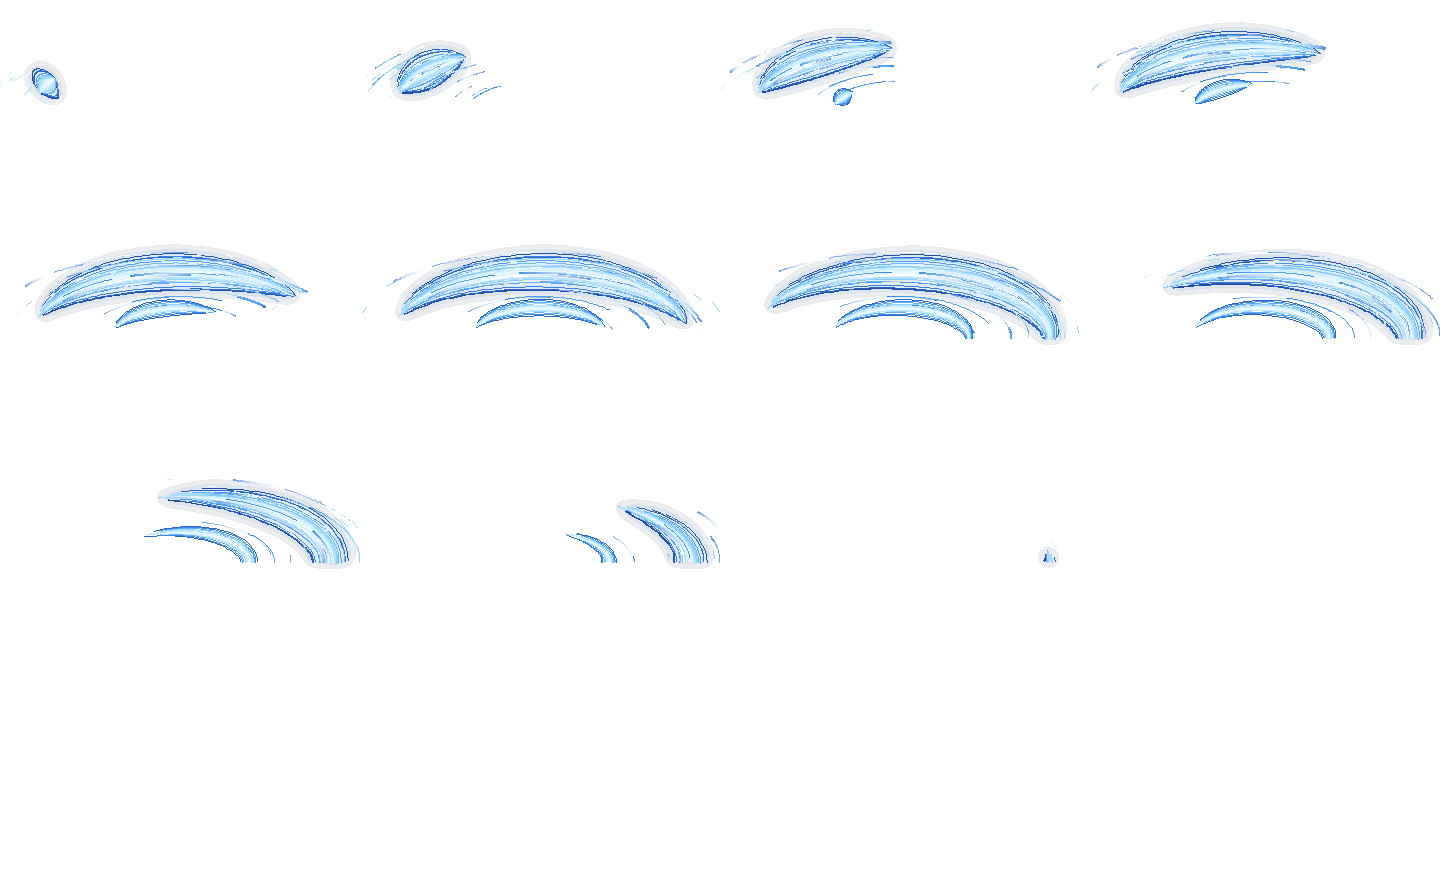
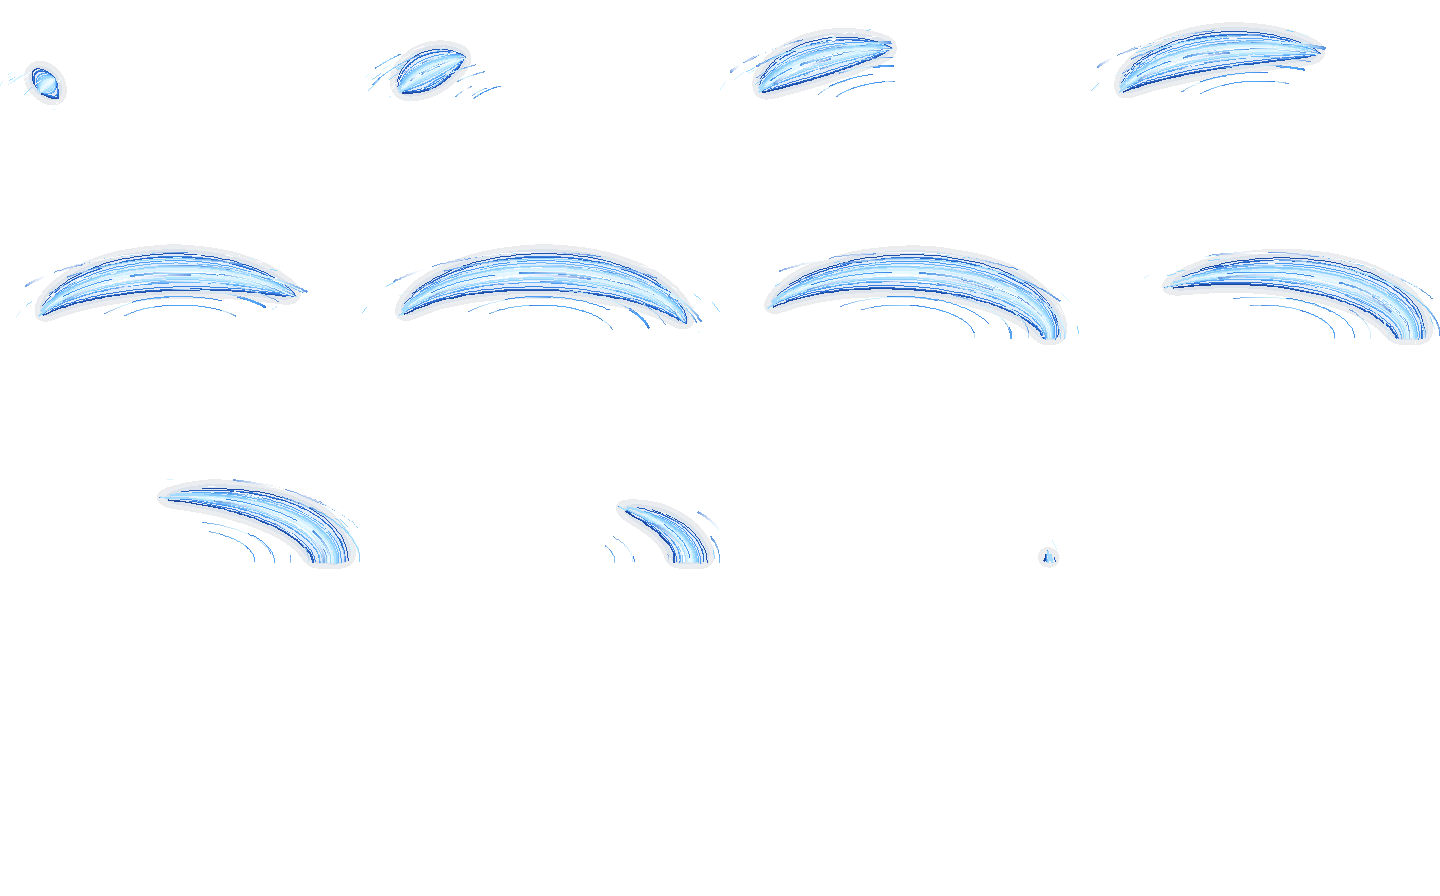
Mũ vàng chạm khắc (PixelLab), đòn 3 Ngộ Không nhanh hơn, X nổ va chạm, R rơi chậm và tan, dash mới, ô xu sát trái, bỏ squash Kiếm
Claude-Session: https://claude.ai/code/session_01MYwTvK6dULdzXHFPeBSgyd

diff --git a/game/index.html b/game/index.html
@@ -1403,7 +1403,7 @@ input,select,textarea,#crName{font-size:16px!important}
 #avaC{width:57px!important;height:57px!important}
 #avaLv{right:-4px!important;bottom:-2px!important;left:auto!important;top:auto!important;z-index:3}
 .avn{padding-top:1px}
-#coins{left:calc(max(10px,env(safe-area-inset-left)) + 73px)!important;top:calc(max(8px,env(safe-area-inset-top)) + 69px)!important;padding:2px 12px 2px 6px!important;font-size:14px!important;gap:6px!important;border-radius:8px!important}
+#coins{left:calc(max(10px,env(safe-area-inset-left)) + 0px)!important;top:calc(max(8px,env(safe-area-inset-top)) + 69px)!important;padding:2px 12px 2px 6px!important;font-size:14px!important;gap:6px!important;border-radius:8px!important}
 #coins canvas{width:16px!important;height:16px!important}
 @media (max-height:520px){
  #avaBtn{width:57px!important;height:57px!important}#avaC{width:50px!important;height:50px!important}
@@ -2105,7 +2105,7 @@ const WEAPONS={
 const GOD=o=>Object.assign({src:'g',t:'w'},o);
 const GODS={
  wukong:{name:'Tôn Ngộ Không',tf:'Tề Thiên Giáng Thế',tier:'SSS',mult:3.0,dur:20,cd:60,armor:15,spd:0.2,look:'wukong',wpn:'bong',g:'悟',role:'Sát thương diện rộng, thổi lông hóa khỉ con',wname:'Như Ý Kim Cô Bổng',
-  basic:{name:'Như Ý Liên Bổng',g:'棒',cd:0.42,range:145,cast(tg){const a=angTo(tg);P._gN=((P._gN||0)+1)%3;const slam=P._gN===0;if(slam)P._gRoot=G.t+0.7;P._gB=P._gN===2;P._gSl=slam;swing(a,P.sw=-(P.sw||1));if(slam){const fcs=Math.cos(a)<0?-1:1;P.facing=fcs;later(0.12,()=>{if(P.form!=='god')return;if(vok('wk_arc'))fx({k:'sp',s:'wk_arc',x:P.x,y:P.y,sc:0.98,fx:fcs,T:0.5,follow:1,al:0.9});},'g');later(0.33,()=>{if(P.form!=='god')return;arc(P.x,P.y-8,a,150,2.2,26*gp(),GOD({kb:220,stun:0.12,nofx:1}),'#ffd36a',1);G.shake=Math.max(G.shake||0,5);cracks(P.x+fcs*60,P.y,60)},'g');return}const fc=Math.cos(a)<0?-1:1,ta=clamp(Math.atan2(Math.sin(a),Math.abs(Math.cos(a))),-0.35,0.35);if(!P._gB){/* Bổ: gậy giơ cao bổ xuống phía trước -> vệt trăng tâm ở tay, quét trên xuống trước mặt; trúng ở khung gậy bổ xuống, đã chạy đi thì hủy */later(0.2,()=>{if(P.form!=='god')return;const sp=vok('wk_arc');arc(P.x,P.y-8,a,138,2.4,14*gp(),GOD({kb:120,nofx:sp}),'#ffd36a',1);},'g');/* đòn 1 cùng họ vệt với đòn 3 (wk_arc), bản nhỏ 65%, chỉ phần trăng, không gai bụi (24/11) */later(0.02,()=>{if(P.form!=='god')return;if(vok('wk_arc'))fx({k:'sp',s:'wk_arc',x:P.x,y:P.y,sc:0.64,fx:fc,f0:0,f1:3,T:0.22,al:0.8,follow:1})},'g')}
+  basic:{name:'Như Ý Liên Bổng',g:'棒',cd:0.42,range:145,cast(tg){const a=angTo(tg);P._gN=((P._gN||0)+1)%3;const slam=P._gN===0;if(slam)P._gRoot=G.t+0.5;P._gB=P._gN===2;P._gSl=slam;swing(a,P.sw=-(P.sw||1));if(slam){const fcs=Math.cos(a)<0?-1:1;P.facing=fcs;later(0.08,()=>{if(P.form!=='god')return;if(vok('wk_arc'))fx({k:'sp',s:'wk_arc',x:P.x,y:P.y,sc:0.98,fx:fcs,T:0.36,follow:1,al:0.9});},'g');later(0.24,()=>{if(P.form!=='god')return;arc(P.x,P.y-8,a,150,2.2,26*gp(),GOD({kb:220,stun:0.12,nofx:1}),'#ffd36a',1);G.shake=Math.max(G.shake||0,5);cracks(P.x+fcs*60,P.y,60)},'g');return}const fc=Math.cos(a)<0?-1:1,ta=clamp(Math.atan2(Math.sin(a),Math.abs(Math.cos(a))),-0.35,0.35);if(!P._gB){/* Bổ: gậy giơ cao bổ xuống phía trước -> vệt trăng tâm ở tay, quét trên xuống trước mặt; trúng ở khung gậy bổ xuống, đã chạy đi thì hủy */later(0.2,()=>{if(P.form!=='god')return;const sp=vok('wk_arc');arc(P.x,P.y-8,a,138,2.4,14*gp(),GOD({kb:120,nofx:sp}),'#ffd36a',1);},'g');/* đòn 1 cùng họ vệt với đòn 3 (wk_arc), bản nhỏ 65%, chỉ phần trăng, không gai bụi (24/11) */later(0.02,()=>{if(P.form!=='god')return;if(vok('wk_arc'))fx({k:'sp',s:'wk_arc',x:P.x,y:P.y,sc:0.64,fx:fc,f0:0,f1:3,T:0.22,al:0.8,follow:1})},'g')}
    else{/* Đâm: gậy nằm ngang theo hướng mặt, tia vàng phóng ra từ đầu gậy, trúng theo đường thẳng hẹp và xa hơn */later(0.12,()=>{if(P.form!=='god')return;const aa=fc>0?ta:Math.PI-ta,sp=1;arc(P.x,P.y-8,aa,175,1.1,15*gp(),GOD({kb:150,nofx:sp}),'#ffd36a',1);/* gậy không có mũi: chỉ chớp lửa nhỏ ở đầu gậy */if(vok('wk_hit'))fx({k:'sp',s:'wk_hit',x:P.x+fc*96,y:P.y-63,sc:0.45,f0:2,f1:5,T:0.16});/* va chạm: tia trúng + lóe sáng ở chỗ quái bị đâm (24/11) */later(0.01,()=>{if(P.form!=='god')return;for(const e of enemiesIn(P.x+fc*95,P.y-8,85).slice(0,3)){if(e.dead)continue;if(vok('wk_hit'))fx({k:'sp',s:'wk_hit',x:e.x,y:e.y-e.r*1.1,sc:0.95,f0:2,T:0.26,al:0.9});burst(e.x,e.y-e.r,'#ffd36a',6)}},'g')},'g')}}},
   skills:[
    {name:'Bạt Mao Triệu Hầu',g:'猴',hotkey:'Q',cd:9,range:420,desc:'Nhổ một nhúm lông thổi ra 5 khỉ con. Mỗi con tự tìm quái, lao tới cào cắn trong 8 giây.',cast(){P._gBlow=G.t;P._gRoot=G.t+0.55;blowMonkeys(5)}},
@@ -2117,7 +2117,7 @@ const GODS={
    later(D,()=>{P._gFly=null;P.x=x1;P.y=y1;P.inv=Math.max(P.inv,0.2);circ(P.x,P.y,150,22*gp(),GOD({kb:150}),cs?null:'#ffe9a0');if(cs){fx({k:'sp',s:'wk_cloud',x:P.x,y:P.y,dy:14,sc:1.5,f0:3,f1:6,fade:0.5,al:0.95,T:0.9,follow:1,gr:1});fx({k:'scorch',x:P.x,y:P.y,r:95,T:1.0,gr:1});if(vok('wk_whirl'))fx({k:'sp',s:'wk_whirl',x:P.x,y:P.y-4,sc:1.4,f0:2,T:0.55,gr:1});cracks(P.x,P.y,110)}G.shake=Math.max(G.shake||0,8)},'g')}},
    {name:'Như Ý Xuyên Thiên',g:'金',hotkey:'X',cd:6,range:360,desc:'Giữ thế đâm, gậy trên tay dài ra 340 và to lên, xuyên cả hàng quái rồi thu về. Sát thương xuyên 35% giáp.',cast(tg){const a=angTo(tg),fc=Math.cos(a)<0?-1:1,ta=0;/* nằm ngang trùng gậy trong tay ở tư thế đâm */P.facing=fc;P._gHold={an:'attack2',fi:2,until:G.t+0.75};addZone({kind:'staffx',T:0.75,len:340,fc,ta,dmg:30*gp(),o:GOD({kb:160,pierceArmor:0.35}),hs:new Set(),src:'g'});const hx0=P.x+fc*(-27),hy0=P.y-63;if(vok('wk_puff')){fx({k:'sp',s:'wk_puff',x:hx0,y:hy0,sc:0.55,f0:5,f1:8,al:0.5,fade:0.6,T:0.4});later(0.66,()=>{if(P.form==='god')fx({k:'sp',s:'wk_puff',x:P.x+fc*(-27),y:P.y-63,sc:0.5,f0:5,f1:8,al:0.45,fade:0.6,T:0.35})},'g')}}},
   ],
-  ult:{name:'Định Hải Trấn Thiên',g:'天',hotkey:'R',cd:11,range:420,desc:'Gậy khổng lồ nện xuống, choáng diện rộng 1,8 giây (tinh anh nửa thời gian, trùm miễn choáng).',cast(tg){const t=densest(P.x,P.y,420)||tg;const x=t.x,y=t.y;fx({k:'staff',x,y,T:0.7});addHazVis(x,y,260,0.5);later(0.5,()=>{const sp=vok('wk_stomp');circ(x,y,260,80*gp(),GOD({stun:1.8,kb:200}),sp?null:'#ffd36a');if(sp){fx({k:'scorch',x,y,r:150,T:1.0,gr:1});fx({k:'sp',s:'wk_stomp',x,y,sc:3,f0:1,T:0.6,gr:1})}G.shake=18;cracks(x,y,260);burst(x,y,'#ffd36a',30)},'g')}}},
+  ult:{name:'Định Hải Trấn Thiên',g:'天',hotkey:'R',cd:11,range:420,desc:'Gậy khổng lồ nện xuống, choáng diện rộng 1,8 giây (tinh anh nửa thời gian, trùm miễn choáng).',cast(tg){const t=densest(P.x,P.y,420)||tg;const x=t.x,y=t.y;fx({k:'staff',x,y,T:1.7});addHazVis(x,y,260,0.95);later(0.95,()=>{const sp=vok('wk_stomp');circ(x,y,260,80*gp(),GOD({stun:1.8,kb:200}),sp?null:'#ffd36a');if(sp){fx({k:'scorch',x,y,r:150,T:1.0,gr:1});fx({k:'sp',s:'wk_stomp',x,y,sc:3,f0:1,T:0.6,gr:1})}G.shake=18;cracks(x,y,260);burst(x,y,'#ffd36a',30)},'g')}}},
  nezha:{name:'Na Tra',tier:'SS',mult:2.6,dur:17,cd:50,armor:10,spd:0.3,look:'nezha',wpn:'hoa',g:'哪',role:'Tốc độ, sát thương lửa',wname:'Hỏa Tiêm Thương',
   basic:{name:'Đâm Thương',g:'槍',cd:0.32,range:165,cast(tg){const a=angTo(tg);swing(a,1);P.thrust=1;line(P.x,P.y-8,a,158,28,10*gp(),GOD({kb:20,burn:1*gp(),t:'m'}),'#ffb050')}},
   skills:[
@@ -2494,7 +2494,7 @@ function updPlayer(dt,frozen){
  let spd=210*(1+S.speed/100);if(P.form==='god')spd*=1+P.god.def.spd;if(P.buffSpd>0){spd*=1.6;P.buffSpd-=dt}if(P.hidden>0){spd*=1.3;P.hidden-=dt}if(stOn('cham'))spd*=1-clamp(P.st.cham.v||0.4,0,0.8);
  if(P._gFly&&G.t-P._gFly.t0>P._gFly.d+0.3)P._gFly=null;
  if(P._gFly){const F=P._gFly,k=Math.min(1,(G.t-F.t0)/F.d),q=k<.5?2*k*k:1-Math.pow(-2*k+2,2)/2;P.x=F.x0+(F.x1-F.x0)*q;P.y=F.y0+(F.y1-F.y0)*q;P.kx=P.ky=0;P.moving=false}
- else if(P.dashT>0){P.dashT-=dt;P.x+=Math.cos(P.dashAng)*780*dt;P.y+=Math.sin(P.dashAng)*780*dt;if(Math.random()<.7)part(P.x,P.y-20,0,0,0.25,9,P.form==='god'?'rgba(255,210,110,.5)':'rgba(180,220,255,.45)',1);if(!LOWFX&&G.decals.length<(MOBILE?12:40)&&Math.random()<(MOBILE?.25:.5))G.decals.push({img:'ink_trail',x:P.x-Math.cos(P.dashAng)*30,y:P.y,ang:P.dashAng+Math.PI,w:90,h:45,t:0,T:0.6,a:0.7})}
+ else if(P.dashT>0){P.dashT-=dt;P.x+=Math.cos(P.dashAng)*780*dt;P.y+=Math.sin(P.dashAng)*780*dt;if(Math.random()<.7)part(P.x,P.y-20,0,0,0.25,9,P.form==='god'?'rgba(255,210,110,.5)':'rgba(180,220,255,.45)',1);if(!LOWFX&&Math.random()<(MOBILE?.5:.8)){const oy=rnd(-34,-8);fx({k:'line',x:P.x-Math.cos(P.dashAng)*14,y:P.y+oy,ang:P.dashAng+Math.PI,len:rnd(46,84),w:rnd(3,6),c:P.form==='god'?'#ffe2a0':'#d8f0ff',T:0.2})}}
  else if(P.cutC){if(!stun&&G.state==='play')updCutC(dt);else endCutC()}
  else if(G.t<(P._gRoot||0)){P.runPh=P.runPh||0}else{P.x+=ix*spd*dt;P.y+=iy*spd*dt;if(P.moving)P.runPh=(P.runPh||0)+spd*Math.min(1,len)*dt}
  P.x+=P.kx*dt;P.y+=P.ky*dt;const dk=Math.max(0,1-8*dt);P.kx*=dk;P.ky*=dk;
@@ -2642,7 +2642,7 @@ for(const id in GODS){const d=GODS[id];(d.skills||[]).forEach((k,i)=>{if(!k.hotk
 function castGod(dt){
  const g=P.god,asp=1+S.aspd/200;
  g.basic.cd-=dt;
- if(g.basic.cd<=0){const tg=nearest(P.x,P.y,g.def.basic.range);if(tg){g.def.basic.cast(tg);g.basic.cd=(g.def.look==='wukong'&&P._gN===0?0.78:g.def.basic.cd)/asp}}
+ if(g.basic.cd<=0){const tg=nearest(P.x,P.y,g.def.basic.range);if(tg){g.def.basic.cast(tg);g.basic.cd=(g.def.look==='wukong'&&P._gN===0?0.58:g.def.basic.cd)/asp}}
  /* Kỹ năng và tuyệt kỹ của Hóa Thân do người chơi BẤM (chủ game, 24/11); ở đây chỉ hồi chiêu. Thần tướng khác vẫn tự thi triển. */
  const manual=true;
  for(const s of g.sk){s.cd=Math.max(0,s.cd-dt);if(manual)continue;if(s.cd<=0){if(s.def.need&&!s.def.need())continue;const tg=nearest(P.x,P.y,s.def.range);if(tg){s.def.cast(tg);s.cd=s.def.cd;s.fl=0.3}}}
@@ -2658,7 +2658,7 @@ function requestGodSkill(key){
 function dash(){
  if(!G||G.state!=='play'||G.paused||P.dashCd>0||P.transT>0||stOn('choang')||cutCLocked())return;
  if(P.cutC)endCutC();
- P.manualQueue=null;P.swordCut=null;P.swordGuard=null;P.av=0;P.atkT=0;P.truyPhongT=secOn('truyphong')?.65:0;P.dashAng=P.moving?P.moveAng:P.aimAng;P.dashT=0.17;if(secOn('hoiphong'))P.hoiPhong=2.5;sfx('suodi_cast',0.35,0.2);P.inv=Math.max(P.inv,0.3);P.dashCd=1.4*(1-S.dashCdr/100);P.holdT0=G.t;tutHook('dash');
+ P.manualQueue=null;P.swordCut=null;P.swordGuard=null;P.av=0;P.atkT=0;P.truyPhongT=secOn('truyphong')?.65:0;P.dashAng=P.moving?P.moveAng:P.aimAng;P.dashT=0.17;if(!LOWFX){fx({k:'ring',x:P.x,y:P.y-6,r0:8,r1:46,c:'#e8f6ff',T:0.22});for(let i=0;i<8;i++)part(P.x+rnd(-6,6),P.y-2,-Math.cos(P.dashAng)*rnd(40,110)+rnd(-30,30),rnd(-26,-6),rnd(0.3,0.5),rnd(4,8),'rgba(225,230,235,.55)',0)}if(secOn('hoiphong'))P.hoiPhong=2.5;sfx('suodi_cast',0.35,0.2);P.inv=Math.max(P.inv,0.3);P.dashCd=1.4*(1-S.dashCdr/100);P.holdT0=G.t;tutHook('dash');
 }
 function updEnemy(e,dt){
  if(e.shMax&&e.shield<e.shMax&&!e.dead){e.shT+=dt;if(e.shT>6){e.shield=e.shMax;e.shT=0}}
@@ -2799,8 +2799,8 @@ function updZones(dt){
      if(k>=1){if(!e.dead){hit(e,z.dmg,z.o,s.x,s.y);fx({k:'sp',s:'hp_imp',x:s.x,y:s.y,sc:0.9,T:0.5});fx({k:'sp',s:'hp_star',x:s.x,y:s.y,sc:0.9,T:0.5})}s.st=2;s.t=0;s.fx0=s.x;s.fy0=s.y;s.e=null}}
     else{const k=Math.min(1,s.t/0.24),q=k*k*(3-2*k);s.x=s.fx0+(ox-s.fx0)*q;s.y=s.fy0+(oy-s.fy0)*q;s.ang=Math.atan2(oy-s.fy0,ox-s.fx0)+Math.PI;if(k>=1){s.st=0;s.nx=z.t+0.55}}}}
   else if(z.kind==='staffx'){const k=z.t/z.T,e=k<0.45?1-Math.pow(1-k/0.45,3):k<0.72?1:1-Math.pow((k-0.72)/0.28,1.6);z.e=e;const L=40+z.len*e,ux=Math.cos(z.ta)*z.fc,uy=Math.sin(z.ta),hx=P.x+z.fc*(-27),hy=P.y-63;z.x=P.x;z.y=P.y;
-   if(!z.tip&&e>=0.97){z.tip=1;if(vok('wk_hit'))fx({k:'sp',s:'wk_hit',x:hx+ux*L,y:hy+uy*L,sc:0.8,f0:2,f1:5,T:0.18});burst(hx+ux*L,hy+uy*L,'#ffd36a',8)}
-   for(const en of enemiesIn(hx+ux*L/2,hy+uy*L/2,L/2+40)){if(z.hs.has(en))continue;const t=clamp(((en.x-hx)*ux+(en.y-en.r-hy)*uy),0,L),px=hx+ux*t,py=hy+uy*t;if(Math.hypot(en.x-px,en.y-en.r-py)<en.r+30){z.hs.add(en);hit(en,z.dmg,z.o,P.x,P.y);if(vok('wk_hit'))fx({k:'sp',s:'wk_hit',x:en.x,y:en.y-en.r*1.1,sc:0.9,f0:2,T:0.26,al:0.9})}}}
+   if(!z.tip&&e>=0.97){z.tip=1;if(vok('wk_hit'))fx({k:'sp',s:'wk_hit',x:hx+ux*L,y:hy+uy*L,sc:0.8,f0:2,f1:5,T:0.18});if(vok('wk_stomp'))fx({k:'sp',s:'wk_stomp',x:hx+ux*L,y:hy+uy*L+16,sc:0.9,f0:1,T:0.45,al:0.9});fx({k:'ring',x:hx+ux*L,y:hy+uy*L,r0:14,r1:80,c:'#ffe9a0',T:0.32});burst(hx+ux*L,hy+uy*L,'#ffd36a',14)}
+   for(const en of enemiesIn(hx+ux*L/2,hy+uy*L/2,L/2+40)){if(z.hs.has(en))continue;const t=clamp(((en.x-hx)*ux+(en.y-en.r-hy)*uy),0,L),px=hx+ux*t,py=hy+uy*t;if(Math.hypot(en.x-px,en.y-en.r-py)<en.r+30){z.hs.add(en);hit(en,z.dmg,z.o,P.x,P.y);if(vok('wk_hit'))fx({k:'sp',s:'wk_hit',x:en.x,y:en.y-en.r*1.1,sc:0.9,f0:2,T:0.26,al:0.9});if(vok('wk_stomp'))fx({k:'sp',s:'wk_stomp',x:en.x,y:en.y,sc:0.75,f0:1,T:0.42,al:0.95});fx({k:'ring',x:en.x,y:en.y-en.r*0.8,r0:10,r1:62,c:'#ffd36a',T:0.28});burst(en.x,en.y-en.r,'#ffb84a',10);G.shake=Math.max(G.shake||0,3)}}}
   else if(z.kind==='staff'){z.cur=z.a0+(z.t/z.T)*TAU*z.dir;for(const e of enemiesIn(z.x,z.y,z.len)){if(z.hs.has(e))continue;if(Math.abs(angDiff(Math.atan2(e.y-z.y,e.x-z.x),z.cur))<0.3){z.hs.add(e);hit(e,z.dmg,z.o,z.x,z.y)}}}
   else if(z.dmg>0){z.acc+=dt;if(z.acc>=z.tick){z.acc-=z.tick;for(const e of enemiesIn(z.x,z.y,z.r))hit(e,z.dmg,z.o,z.x,z.y)}}
  }
@@ -3081,13 +3081,13 @@ function drawFx(f){
   case'scorch':{/* vết cháy dưới đất: mờ dần ra rìa (không viền cứng), nhạt, tan nhanh; trước là hai elip đặc nhìn như cái đĩa đen */c.globalCompositeOperation='source-over';c.globalAlpha=0.34*Math.min(1,(1-k)*2.6)*Math.min(1,k*12+0.4);c.save();c.translate(f.x,f.y);c.scale(1,0.42);const g=c.createRadialGradient(0,0,0,0,0,f.r);g.addColorStop(0,'rgba(30,18,10,.9)');g.addColorStop(0.45,'rgba(42,28,18,.55)');g.addColorStop(1,'rgba(42,28,18,0)');c.fillStyle=g;c.beginPath();c.arc(0,0,f.r,0,TAU);c.fill();c.restore();break}
   case'el':{if(!vok('slash_el'))break;const m=SPX.slash_el,i=Math.min(m.n-1,Math.floor(k*m.n));if(f.follow&&P){f.x=P.x+(f.ox||0);f.y=P.y+(f.oy||0)}c.globalCompositeOperation='source-over';c.imageSmoothingEnabled=false;c.translate(Math.round(f.x),Math.round(f.y));c.scale(f.sx,f.sy);c.rotate(f.back?-Math.PI/2:Math.PI/2);c.drawImage(VFX.slash_el,(i%m.c)*m.w,Math.floor(i/m.c)*m.h,m.w,m.h,-m.px,-m.py,m.w,m.h);break}
   case'sp':{if(f.follow&&P){f.x=P.x;f.y=P.y}const m=SPX[f.s];if(!vok(f.s))break;const f0=f.f0||0,f1=f.f1==null?m.n-1:f.f1,i=Math.min(f1,f0+Math.floor(k*(f1-f0+1)));c.globalCompositeOperation='source-over';c.imageSmoothingEnabled=false;c.globalAlpha=(f.al||1)*(f.fade&&k>1-f.fade?(1-k)/f.fade:1);c.translate(Math.round(f.x+(f.dx||0)*(f.fx||1)),Math.round(f.y+(f.dy||0)+(f.oy||0)*f.sc));if(f.ang)c.rotate(f.ang);c.scale(f.sc*(f.fx||1),f.sc*(f.fl||1)*(f.sy||1));c.drawImage(VFX[f.s],(i%m.c)*m.w,Math.floor(i/m.c)*m.h,m.w,m.h,-m.px,-m.py,m.w,m.h);break}
-  case'staff':{const fall=Math.min(1,k/0.7),ez=fall*fall;c.globalCompositeOperation='source-over';const A0=k>0.85?(1-k)/0.15:1;c.translate(f.x,f.y);
-   /* Định Hải Trấn Thiên (24/11): bóng đổ lớn dần trên đất, vệt tốc độ, ánh vàng phủ thân, chớp sáng khi chạm */
-   c.save();c.globalAlpha=A0*0.45*ez;c.scale(1,0.4);c.fillStyle='rgba(25,12,0,.7)';c.beginPath();c.arc(0,0,70+120*ez,0,TAU);c.fill();c.restore();
-   if(vok('wk_staff')){c.imageSmoothingEnabled=false;const S=4,L=330;c.save();c.scale(S,S);const top=-L-290*(1-fall)*(1-fall)+7;
+  case'staff':{const fall=Math.min(1,k/0.56),ez=fall*fall;c.globalCompositeOperation='source-over';const A0=k>0.66?Math.max(0,(1-k)/0.34):1;c.translate(f.x,f.y);
+   /* Định Hải Trấn Thiên: bóng đổ mềm lớn dần khi gậy rơi (24/11), gậy rơi chậm, đáp xong tan từ từ */
+   {c.save();c.scale(1,0.42);const R=40+150*ez,g=c.createRadialGradient(0,0,R*0.1,0,0,R);g.addColorStop(0,'rgba(20,10,0,'+(0.55*ez*A0)+')');g.addColorStop(0.6,'rgba(30,16,4,'+(0.28*ez*A0)+')');g.addColorStop(1,'rgba(30,16,4,0)');c.fillStyle=g;c.beginPath();c.arc(0,0,R,0,TAU);c.fill();c.restore()}
+   if(vok('wk_staff')){c.imageSmoothingEnabled=false;const S=4,L=330;c.save();c.scale(S,S);const top=-L-290*(1-fall)*(1-fall)*(1-fall)+7;
     if(fall<1){c.globalAlpha=A0*0.5*(1-fall*0.6);c.strokeStyle='#ffe9a0';c.lineWidth=1;for(let i=-3;i<=3;i++){const xx=i*7+(i%2?2:-2);c.beginPath();c.moveTo(xx,top-45-33*((i+7)%3));c.lineTo(xx,top+33);c.stroke()}}
     c.globalAlpha=A0;c.translate(0,Math.round(top));drawWkStaff(c,L,'wk_staff');c.globalAlpha=A0;staffGlow(c,L,'wk_staff',0.28+0.14*Math.sin(k*40),-1);c.restore();
-    if(k>0.66&&k<0.9){const fk=(k-0.66)/0.24;c.save();c.globalCompositeOperation='lighter';c.globalAlpha=0.8*(1-fk);const g=c.createRadialGradient(0,0,0,0,0,160*(0.5+fk));g.addColorStop(0,'rgba(255,245,200,1)');g.addColorStop(.5,'rgba(255,200,80,.5)');g.addColorStop(1,'rgba(255,160,40,0)');c.fillStyle=g;c.scale(1,0.5);c.beginPath();c.arc(0,0,160*(0.5+fk),0,TAU);c.fill();c.restore()}
+    if(k>0.56&&k<0.8){const fk=(k-0.56)/0.24;c.save();c.globalCompositeOperation='lighter';c.globalAlpha=0.8*(1-fk);const g=c.createRadialGradient(0,0,0,0,0,160*(0.5+fk));g.addColorStop(0,'rgba(255,245,200,1)');g.addColorStop(.5,'rgba(255,200,80,.5)');g.addColorStop(1,'rgba(255,160,40,0)');c.fillStyle=g;c.scale(1,0.5);c.beginPath();c.arc(0,0,160*(0.5+fk),0,TAU);c.fill();c.restore()}
     break}
    c.globalAlpha=A0;c.fillStyle='#b5281a';const len=520,top=-len-500*(1-fall);c.fillRect(-18,top,36,len);c.fillStyle='#f0c040';c.fillRect(-22,top,44,60);c.fillRect(-22,top+len-60,44,60);break}
   case'cloud':{c.globalCompositeOperation='source-over';c.globalAlpha=a*0.85;c.fillStyle='#fff7e8';circle(f.x,f.y-20,16*(1+k));circle(f.x+14,f.y-16,12*(1+k));circle(f.x-14,f.y-15,11*(1+k));break}
@@ -3210,7 +3210,7 @@ function drawPlayer(){
   const runX=Math.cos(P.moveAng);
   const runFacing=Math.abs(runX)>0.15?Math.sign(runX):P.facing;
   const facing=an==='run'?runFacing:P.facing;
-  const turn=an==='run'||an==='attack'||an==='attack2'?runSwingTurn(runFacing):1;
+  const turn=1;/* 24/11: bỏ ép bề ngang 24% khi đổi hướng lúc chạy+đánh (squash, làm méo khung) */
   drawHeroFrame(X,an,fi,P.x,P.y,facing*turn,HERO.SC,P.hurt>0.12&&!P.deadAt,flick?0.55:1);return;
  }
  if(P.hidden>0){X.fillStyle='#4a3020';ell(P.x,P.y,18,7);X.fillStyle='#6a4a30';ell(P.x,P.y-3,12,5);if(Math.random()<.4)part(P.x+rnd(-10,10),P.y,rnd(-30,30),-40,0.4,3,'#8a6a4a',0,100);return}
@@ -3250,7 +3250,7 @@ function drawGodSprite(){
  else if(P._gBlow!=null&&G.t-P._gBlow<0.73&&A.blow){an='blow';fi=Math.min(A.blow.f.length-1,Math.floor((G.t-P._gBlow)/0.73*A.blow.f.length))}
  else if(P.hurt>0.05&&A.hit){an='hit';fi=Math.min(A.hit.f.length-1,Math.floor((1-P.hurt/0.2)*A.hit.f.length))}
  // Đánh là hiện đúng động tác đánh, kể cả khi đang di chuyển (chủ game chọn 24/11); hết nhịp đánh thì về khung chạy.
- else if(P._gAtk&&G.t-P._gAtk.t<(P._gAtk.an==='slam'?0.7:P.moving?0.5:DUR)){const D=P._gAtk.an==='slam'?0.7:P.moving?0.5:DUR;an=P._gAtk.an==='slam'?'slam':(P.moving&&A.runatk?'runatk':P._gAtk.an);fi=Math.min(A[an].f.length-1,Math.floor((G.t-P._gAtk.t)/D*A[an].f.length))}
+ else if(P._gAtk&&G.t-P._gAtk.t<(P._gAtk.an==='slam'?0.5:P.moving?0.5:DUR)){const D=P._gAtk.an==='slam'?0.5:P.moving?0.5:DUR;an=P._gAtk.an==='slam'?'slam':(P.moving&&A.runatk?'runatk':P._gAtk.an);fi=Math.min(A[an].f.length-1,Math.floor((G.t-P._gAtk.t)/D*A[an].f.length))}
  else if(P.moving){an='run';fi=Math.floor((P.runPh||0)/18)%A.run.f.length}
  if(P.god.def.look==='wukong'&&vok('wk_aura_fire')){const A2=AURAF,i=Math.floor(G.t*A2.fps)%A2.n;X.save();X.imageSmoothingEnabled=false;X.globalAlpha=0.85;X.drawImage(VFX.wk_aura_fire,(i%A2.c)*A2.w,Math.floor(i/A2.c)*A2.h,A2.w,A2.h,Math.round(P.x-A2.ax),Math.round(P.y-A2.ay),A2.w,A2.h);X.restore()}else drawAura(P.x,P.y);X.fillStyle='rgba(0,0,0,.4)';ell(P.x,P.y,22,7);
  const M=h.meta,fr=A[an].f[fi],sc=0.98,flick=P.inv>0&&P.hurt>0&&Math.floor(G.t*30)%2;

diff --git a/cong_cu/claude/c_ellipse.py b/cong_cu/claude/c_ellipse.py
@@ -4,7 +4,7 @@ Ra k5c_behind.png / k5c_front.png: ô 360x160, 15 khung, 4 cột. python3 c_elli
 import math,random,sys
 from PIL import Image,ImageDraw,ImageFilter
 OUT=sys.argv[1] if len(sys.argv)>1 else 'game/assets/vfx/'
-VAR=sys.argv[2] if len(sys.argv)>2 else ''
+VAR=sys.argv[2] if len(sys.argv)>2 else 'spark'  # mặc định: tia sao ở đầu nhát chém (chủ game chọn 24/11)
 N=15;CW,CH=360,224;COLS=4;CX,CY=180,114
 RX,RY=150,66
 M=18

diff --git a/CLAUDE.md b/CLAUDE.md
@@ -175,3 +175,12 @@ Lấy từ `origin/claude/relaxed-heisenberg-72j521` commit `819e7a23d6d9f18e93c
 
 ## Lỗi chọn Nam thành Nữ (24/11, đã sửa)
 Nguyên nhân: `startTraining` gán `P0.gender=TR.gender` (giới tính thử ở Luyện Công, lưu bền ở `tdst_tr`) lên hồ sơ thật, nên lần vào/ra Luyện Công sau đó (kể cả "Thử chiêu" ở màn tạo nhân vật) làm hồ sơ Nam tự thành Nữ. Sửa: `TR.gender=null` mỗi lần tải game; `startTraining` nhớ giới tính thật vào `window.__trG0`; `showLobby` trả lại; `persist` không lưu giới tính tạm. Test: `scratchpad/gender_test4.js` (hồ sơ nam + tdst_tr gender nu → vào Luyện Công → Ra sảnh → tải lại: vẫn nam).
+
+## Sửa 24/11 (đêm): mũ vàng, đòn 3 Ngộ Không, X/R, dash, ô xu, méo khung Kiếm
+- **Mũ vàng gậy chạm khắc (PixelLab edit-images-v2, 10 lượt, seed 11, `nguon/pixellab/gay/out2`)** thay hai mũ cũ, thân giữ nguyên.
+- **Đòn 3 Ngộ Không (bổ trên xuống) nhanh hơn:** animation/đứng yên 0,7→0,5 s, chạm 0,33→0,24 s, nhịp sau 0,78→0,58 s.
+- **X:** thêm nổ `wk_stomp` + vòng sáng + hạt + rung nhẹ tại mỗi quái bị xuyên và ở đầu gậy.
+- **R:** gậy rơi chậm (đáp ở 0,95 s, `T` 1,7 s, rơi easeIn mũ 3), đáp xong tan từ từ (~0,5 s), bóng đổ là gradient mềm lớn dần.
+- **Dash:** bỏ vệt mực đen; thay bằng vệt tốc độ sáng, vòng và bụi lúc bắt đầu.
+- **Ô xu** `#coins` sát mép trái (dưới avatar).
+- **Méo khung Kiếm lúc vừa chạy vừa đánh:** do `runSwingTurn` ép bề ngang 24% khi đổi hướng (squash). Đã tắt (`turn=1`).
